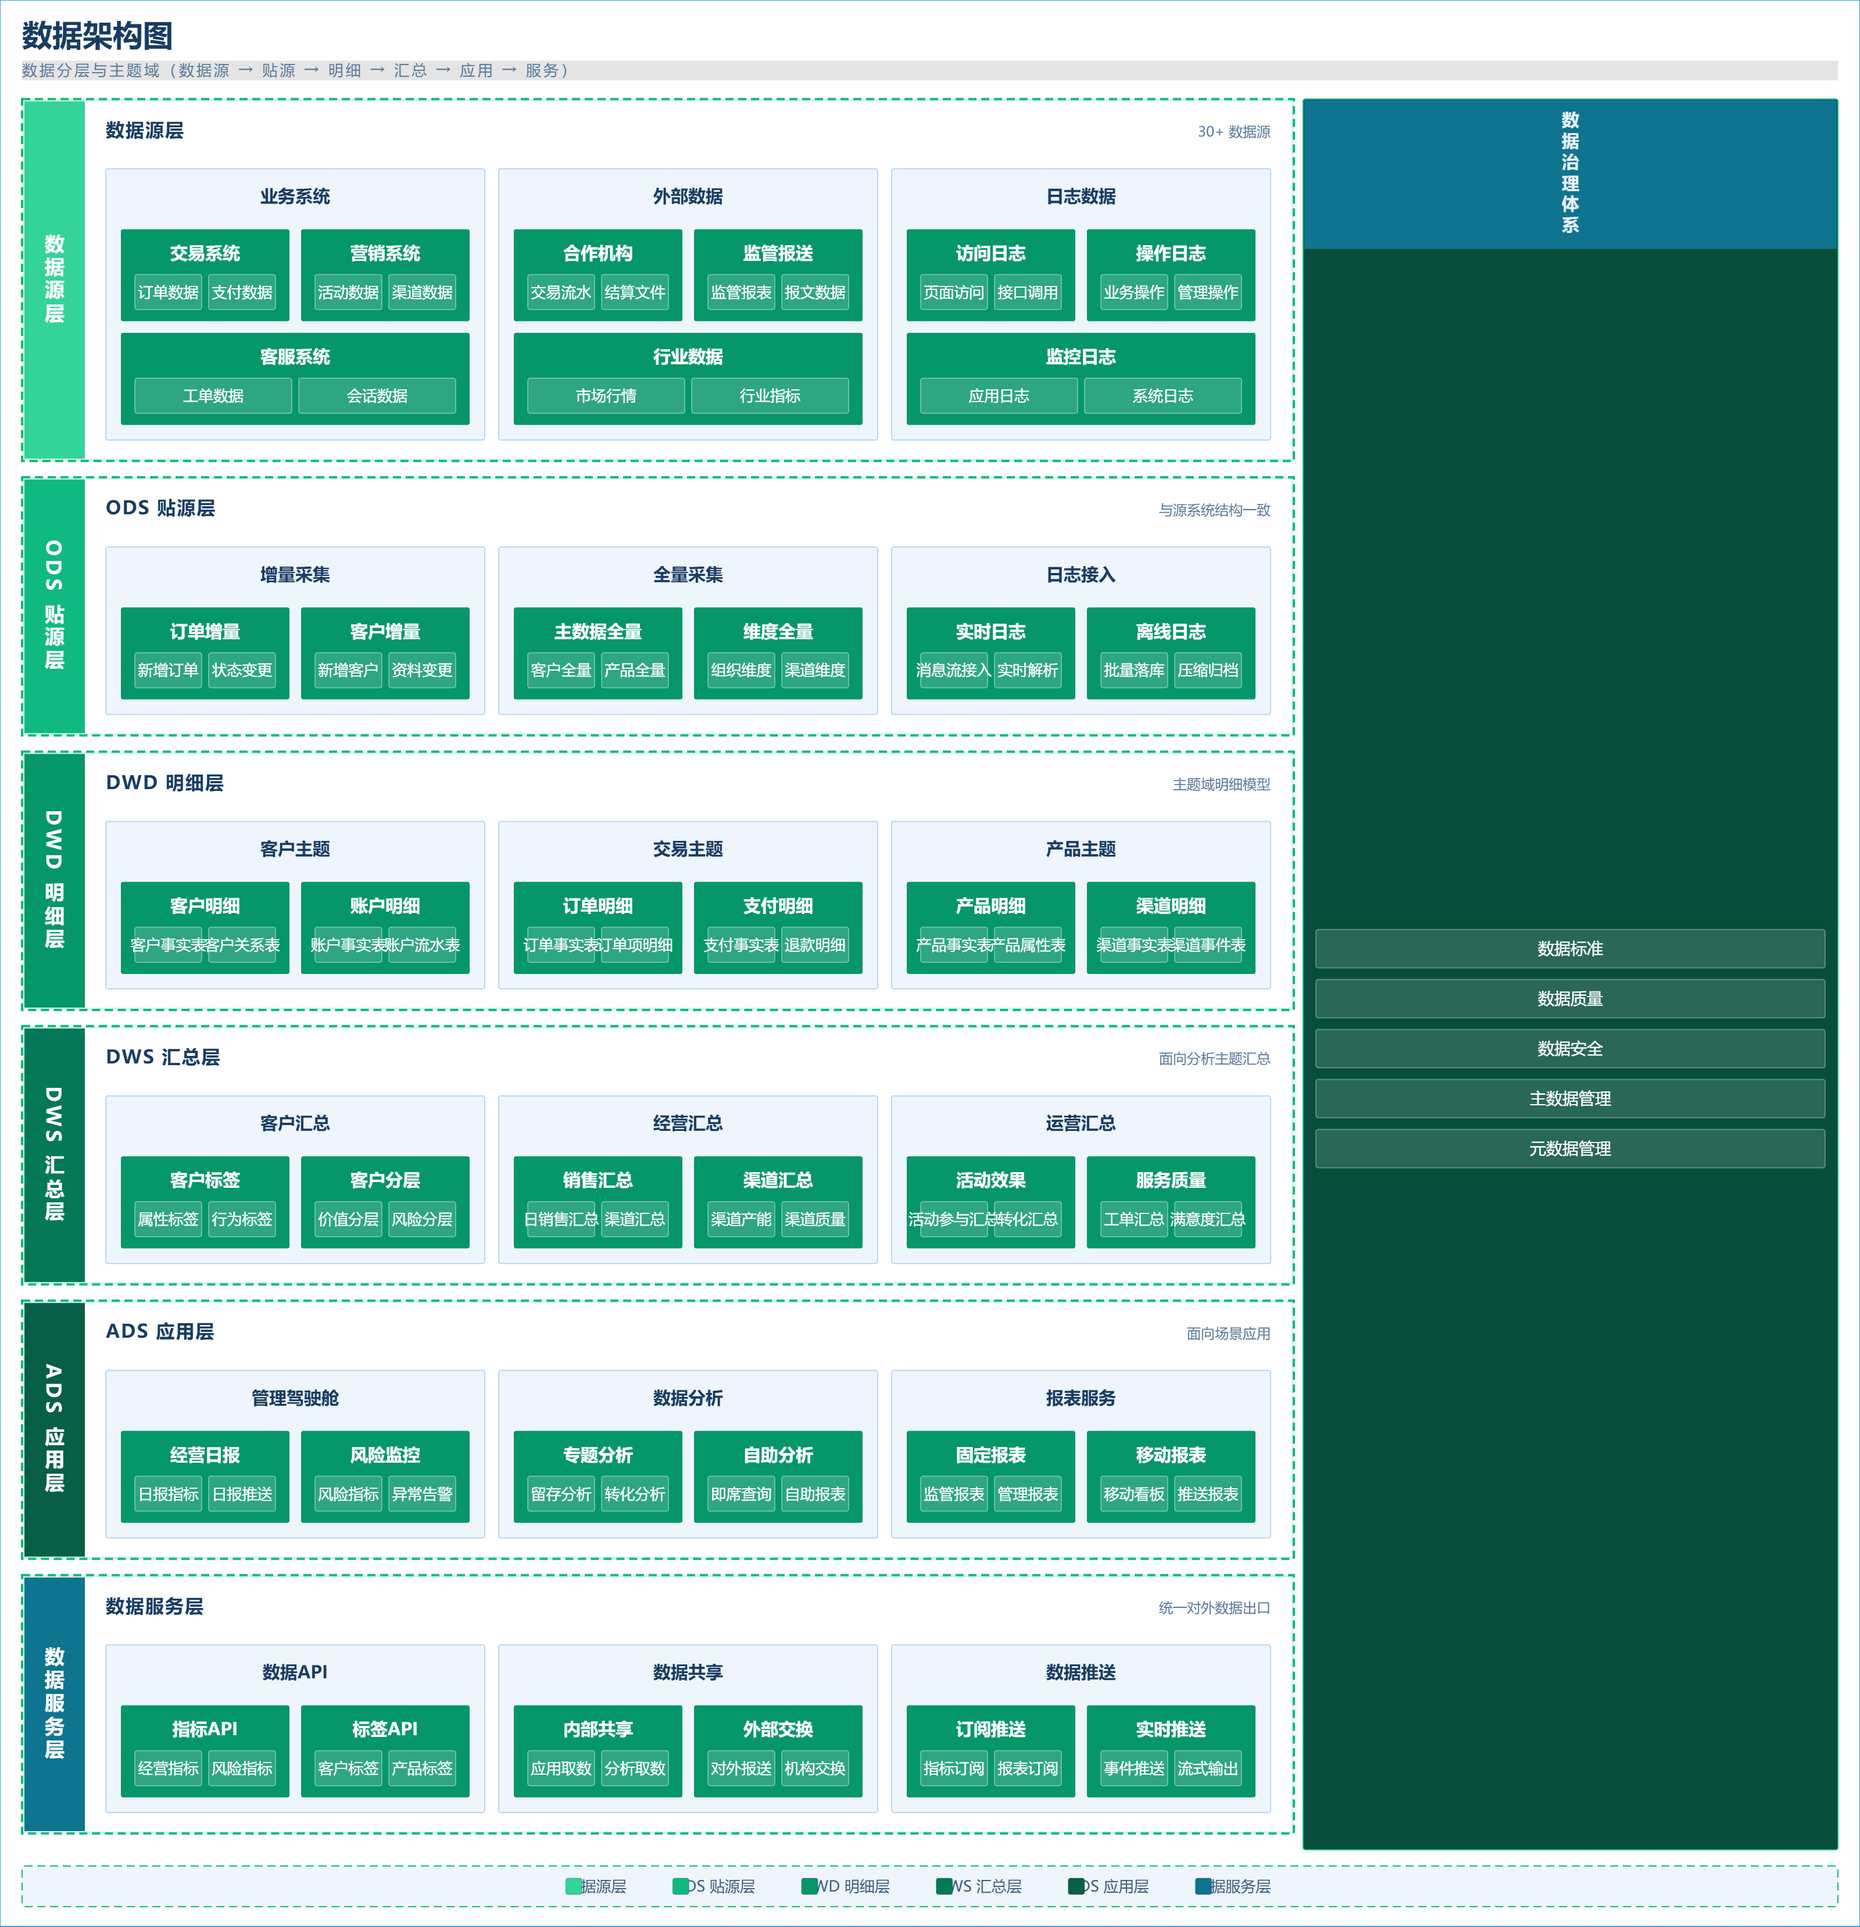
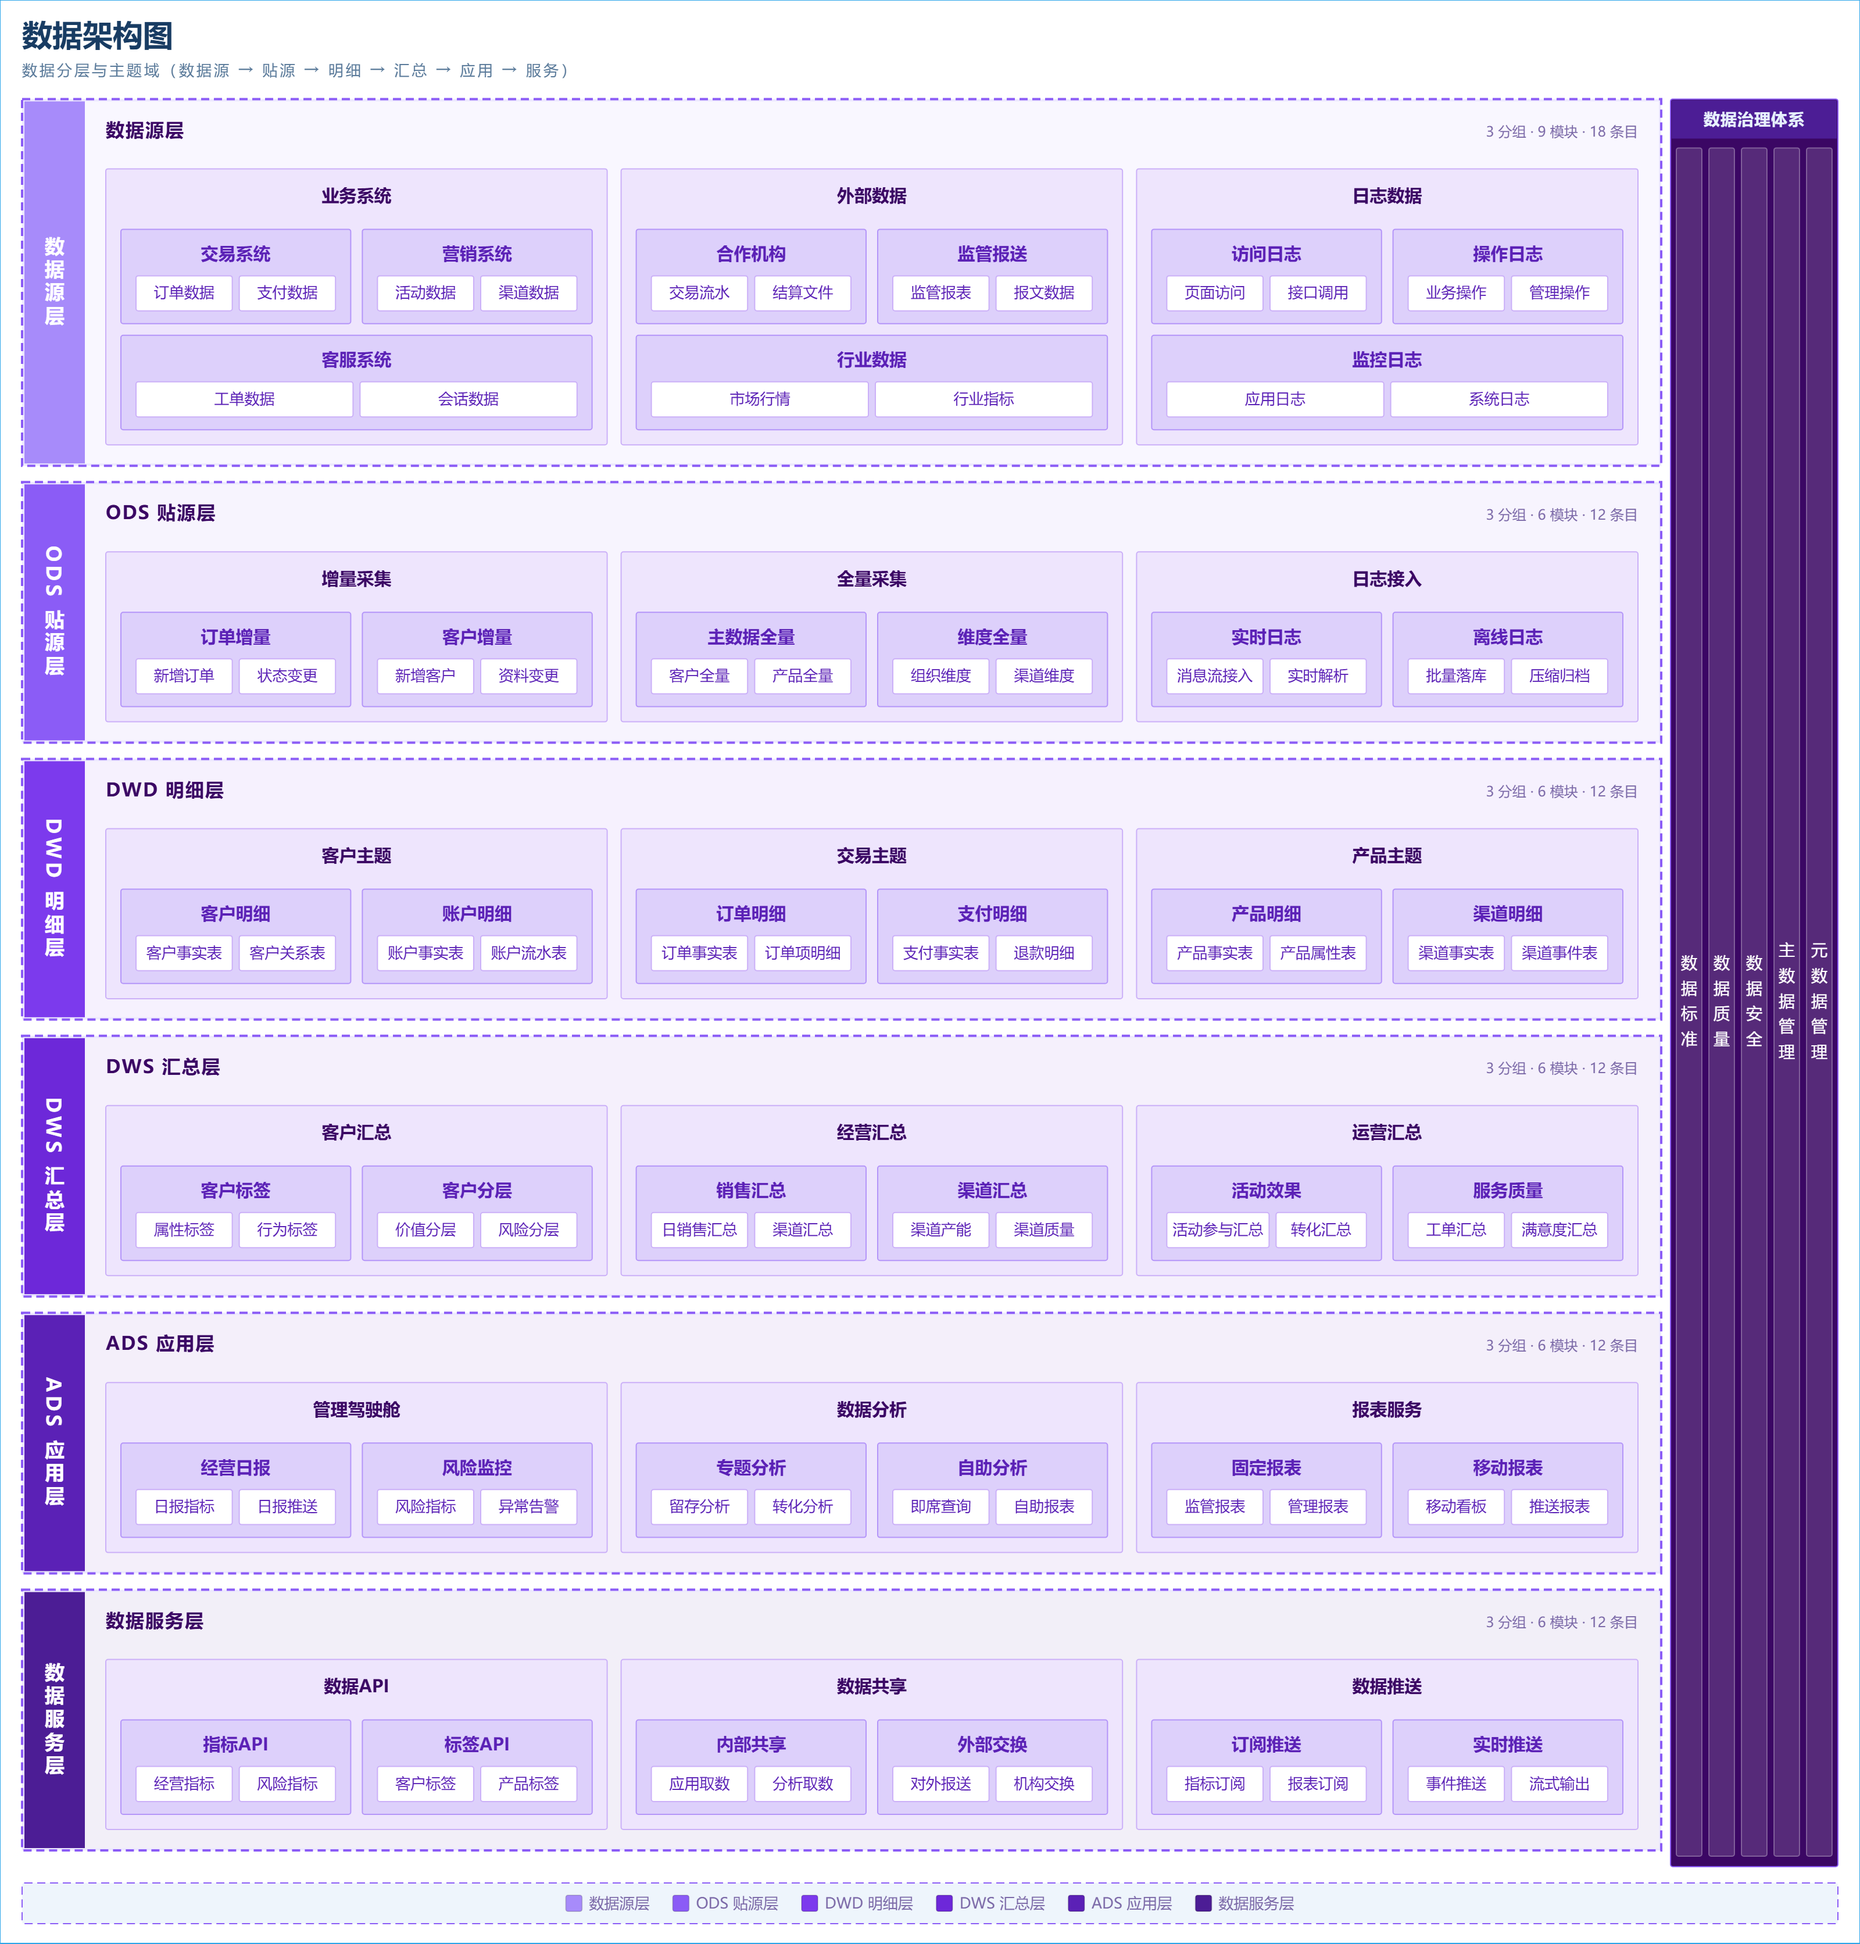
v0.8.1: refresh the README preview images
The screenshots in docs/images predated the start page, the template library and
the per-template palettes, and two of them no longer matched the shipped
defaults (the Data template became violet, not green).

- regenerate all six images with headless Chrome at 2x
- editor.png: Data Architecture template, a block selected so the properties
  panel is populated
- start-page.png / template-library.png: the two new entry points
- flow-preview.png: flow layout, cropped to the diagram instead of the viewport
- overall.png / export-data.png: rendered through the app's own export pipeline,
  so tall diagrams are not cut off by the viewport
- README preview table: 3 columns x 6 tiles, both languages
- drop preview.png, data-green.png and central-amber.png (no longer referenced)
- ROADMAP: v0.8.1 entry

diff --git a/docs/ROADMAP.md b/docs/ROADMAP.md
@@ -121,6 +121,11 @@
 - **UI 冒烟测试**:`tests/ui-smoke.mjs` 用 Chrome headless + DevTools 协议真点一遍(开始页 → 选模板 → 配色套用 → Esc/遮罩关闭 → 新建空图 → 首访自动弹页),并兜住未捕获异常;零依赖,本地与 CI 同一套
 - **CI**:`.github/workflows/ci.yml` 在 push / PR 时跑「语法检查 + 模板校验 + 接线检查」,再跑一个 Ubuntu 自带 Chrome 的 UI 冒烟 job
 
+### v0.8.1 预览图刷新 ✅ 已完成
+
+- `docs/images/` 换成当前版本的六张真实产物:编辑器(数据架构 · 紫罗兰)、开始页、模板库、横向流向板式、总体架构(灰蓝)、PNG 导出。全部由 headless Chrome 现场生成(截图走 2 倍图,两张整图走应用自己的导出管线,避免长图被视口截断),不再是旧版 UI 与旧配色
+- README 预览表从 2 列 4 张改成 3 列 6 张,中英同步;删掉失效的 `preview.png` / `data-green.png` / `central-amber.png`
+
 ### v0.9 分享与内容 📋 计划中
 
 - 分享链接:把图压进 URL(`#d=<压缩数据>`)打开即还原,配只读/嵌入视图
@@ -131,7 +136,7 @@
 - 模板库独立成仓库,自动生成预览图
 - 网页版在线使用 ✅ 已上线:<https://lincoln-cn.github.io/archform/>(master 分支根目录直出,推 master 即更新)
 - 团队规范包:一键套用公司自己的配色、字号、命名规范
-- 发布 1.0 稳定版(已发布过 v0.3.3~v0.8)
+- 发布 1.0 稳定版(已发布过 v0.3.3~v0.8.1)
 
 ## 模板计划
 

diff --git a/README.md b/README.md
@@ -14,12 +14,12 @@
 
 ## Preview
 
-| | |
-|---|---|
-| Overall Architecture · layered · default blue | Data Architecture · layered (palette switchable; shown in green) |
-| ![Overall Architecture template](docs/images/preview.png) | ![Data Architecture template with green palette](docs/images/data-green.png) |
-| Data Architecture · flow layout | Clean PNG export (standalone, current palette) |
-| ![Data Architecture flow layout](docs/images/flow-preview.png) | ![Standalone PNG export](docs/images/export-data.png) |
+| | | |
+|---|---|---|
+| Editor · Data Architecture (its own violet palette) | Start page · twelve live-rendered thumbnails | Template library · search, layout filter, scenario tags |
+| ![Editor with the Data Architecture template](docs/images/editor.png) | ![Start page](docs/images/start-page.png) | ![Template library](docs/images/template-library.png) |
+| Flow layout · Data Flow (violet) | Overall Architecture · layered (slate palette) | Clean PNG export (standalone, 2× scale) |
+| ![Data Flow template in the flow layout](docs/images/flow-preview.png) | ![Overall Architecture template](docs/images/overall.png) | ![Standalone PNG export](docs/images/export-data.png) |
 
 ## Why not another canvas tool?
 

diff --git a/README.zh-CN.md b/README.zh-CN.md
@@ -14,12 +14,12 @@
 
 ## 预览
 
-| | |
-|---|---|
-| 总体架构 · 分层板式 · 经典蓝 | 数据架构 · 分层板式(配色可切换,图为青绿) |
-| ![总体架构模板](docs/images/preview.png) | ![数据架构模板(青绿配色)](docs/images/data-green.png) |
-| 数据架构 · 横向流向板式 | 纯净 PNG 导出(独立产物,含当前配色) |
-| ![数据架构横向流向板式](docs/images/flow-preview.png) | ![纯净 PNG 导出](docs/images/export-data.png) |
+| | | |
+|---|---|---|
+| 编辑器 · 数据架构(模板自带紫罗兰配色) | 开始页 · 12 个模板实时渲染缩略图 | 模板库 · 搜索 / 板式筛选 / 场景标签 |
+| ![数据架构模板的编辑器界面](docs/images/editor.png) | ![开始页](docs/images/start-page.png) | ![模板库](docs/images/template-library.png) |
+| 横向流向板式 · 数据流转(紫罗兰) | 总体架构 · 分层板式(灰蓝配色) | 纯净 PNG 导出(独立产物,2 倍图) |
+| ![数据流转模板的横向流向板式](docs/images/flow-preview.png) | ![总体架构模板](docs/images/overall.png) | ![纯净 PNG 导出](docs/images/export-data.png) |
 
 ## 为什么不是又一个画布工具?
 
